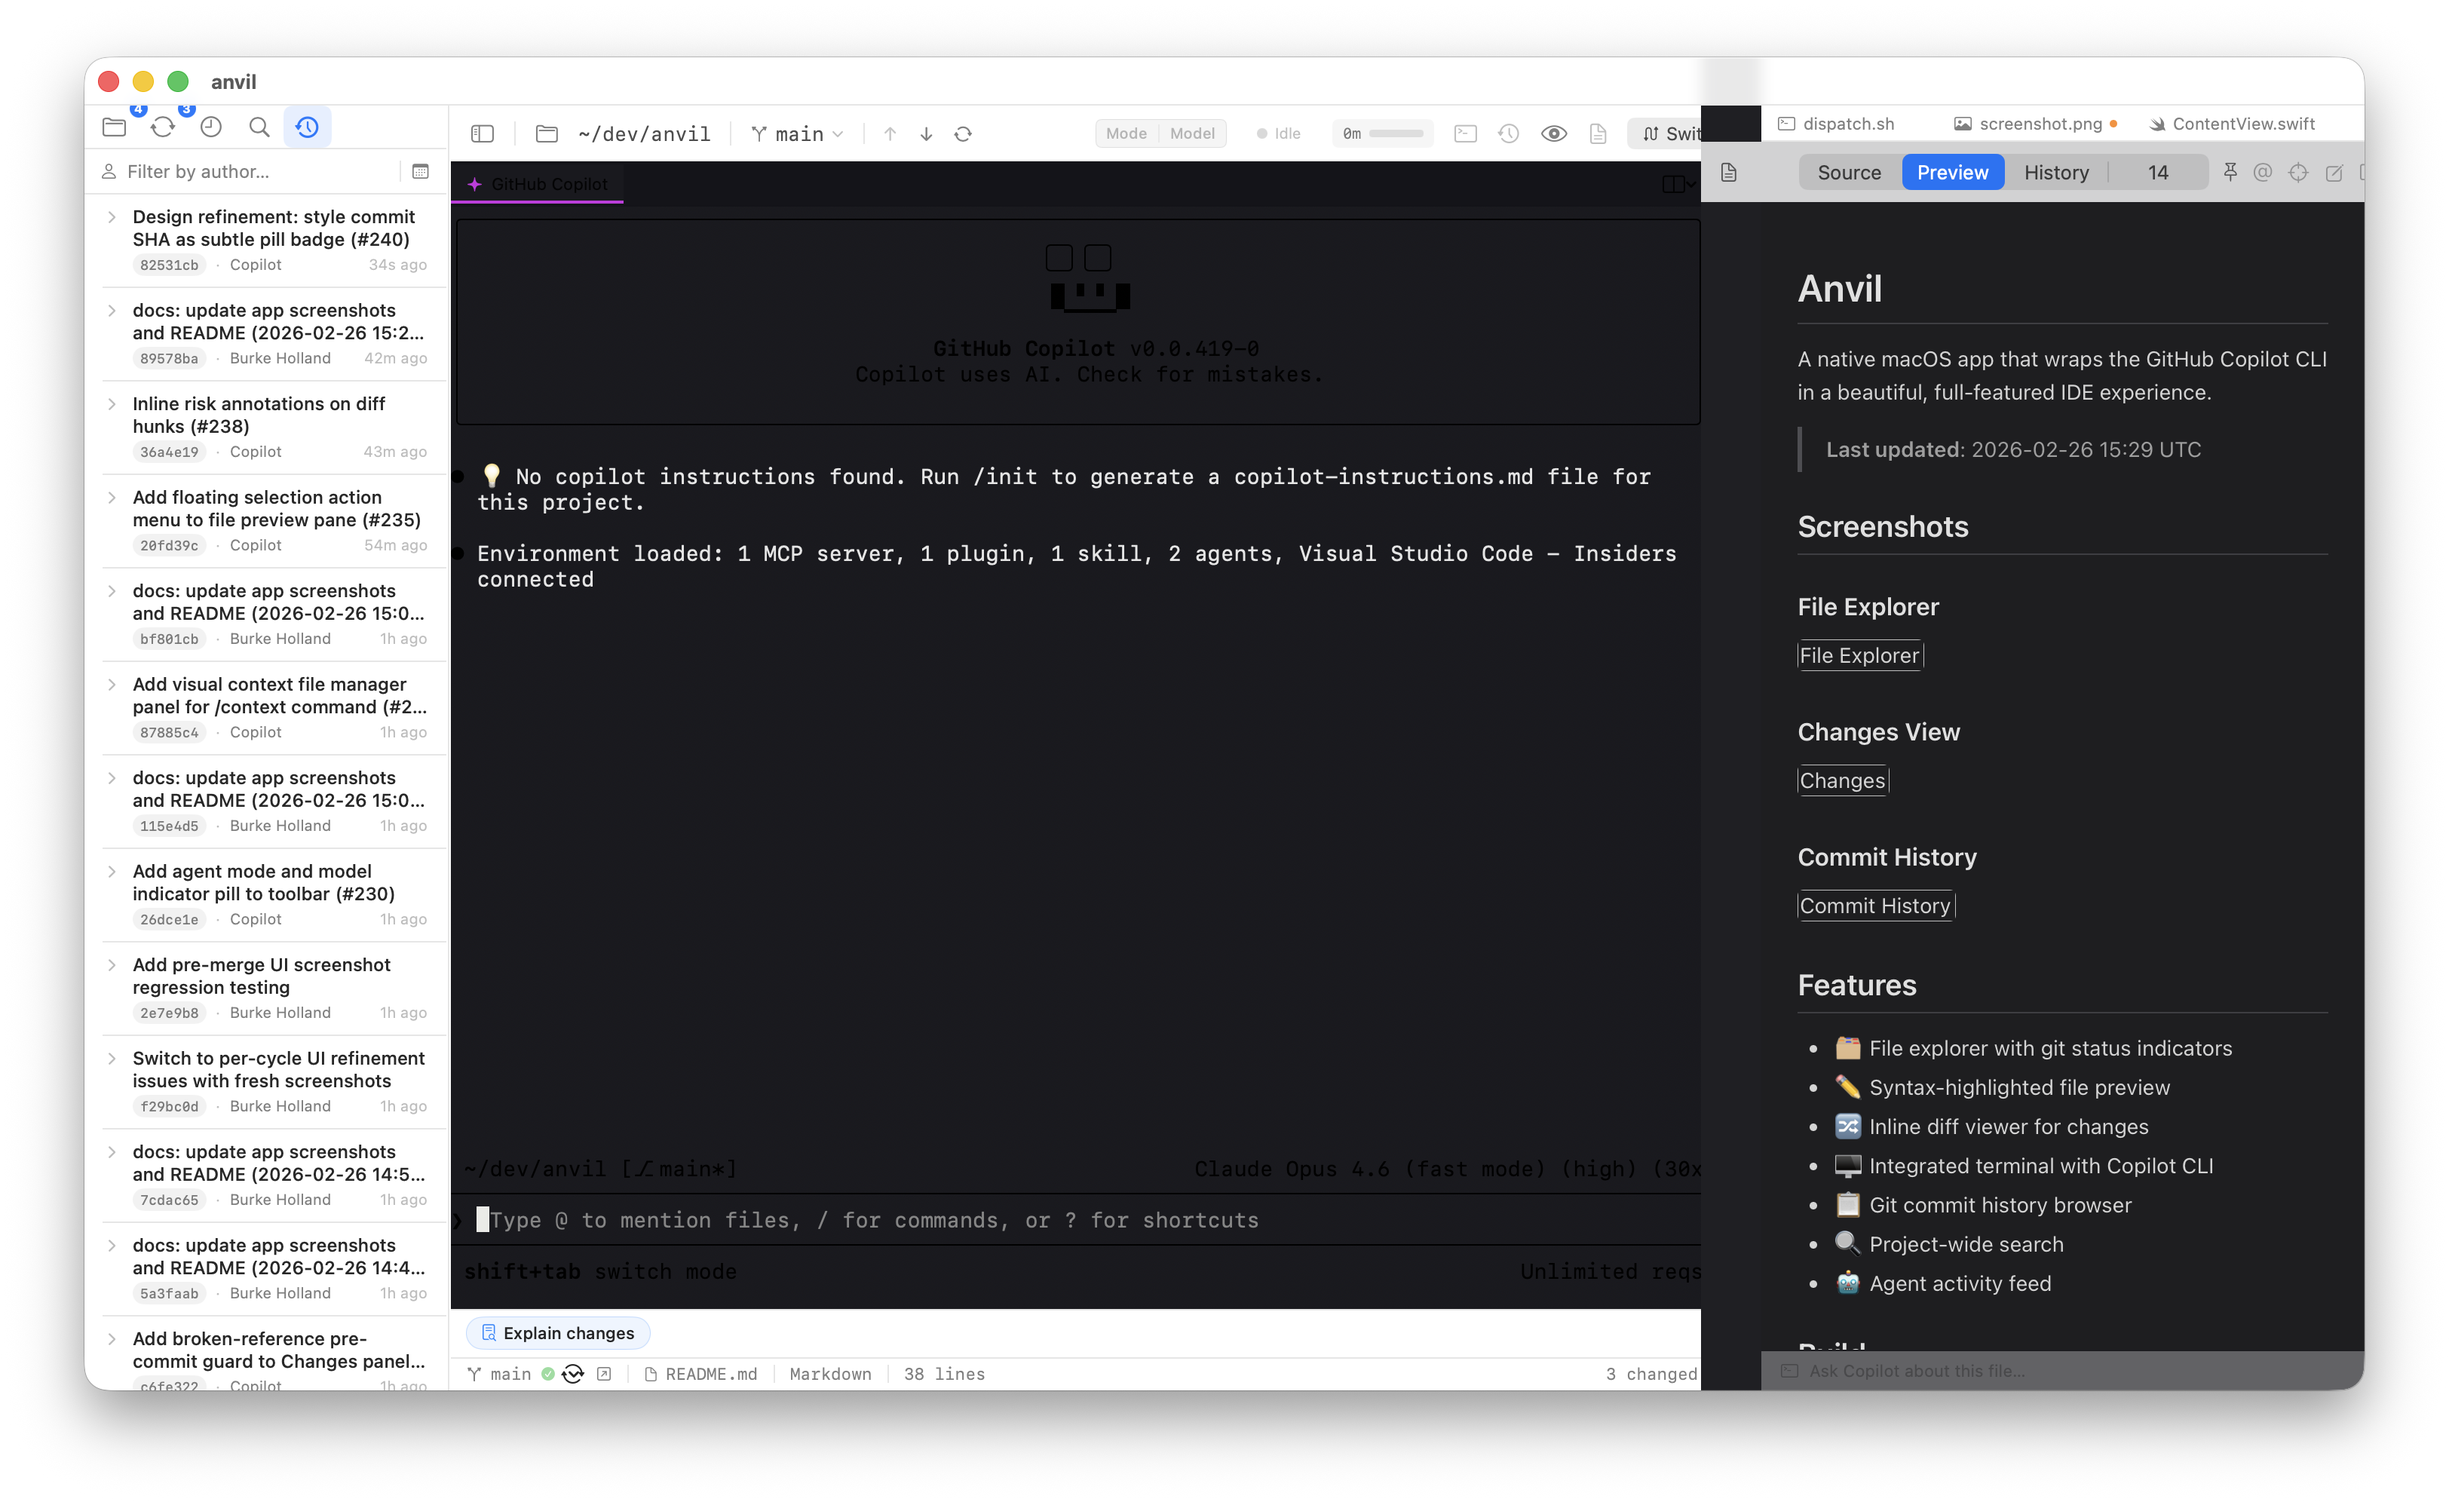
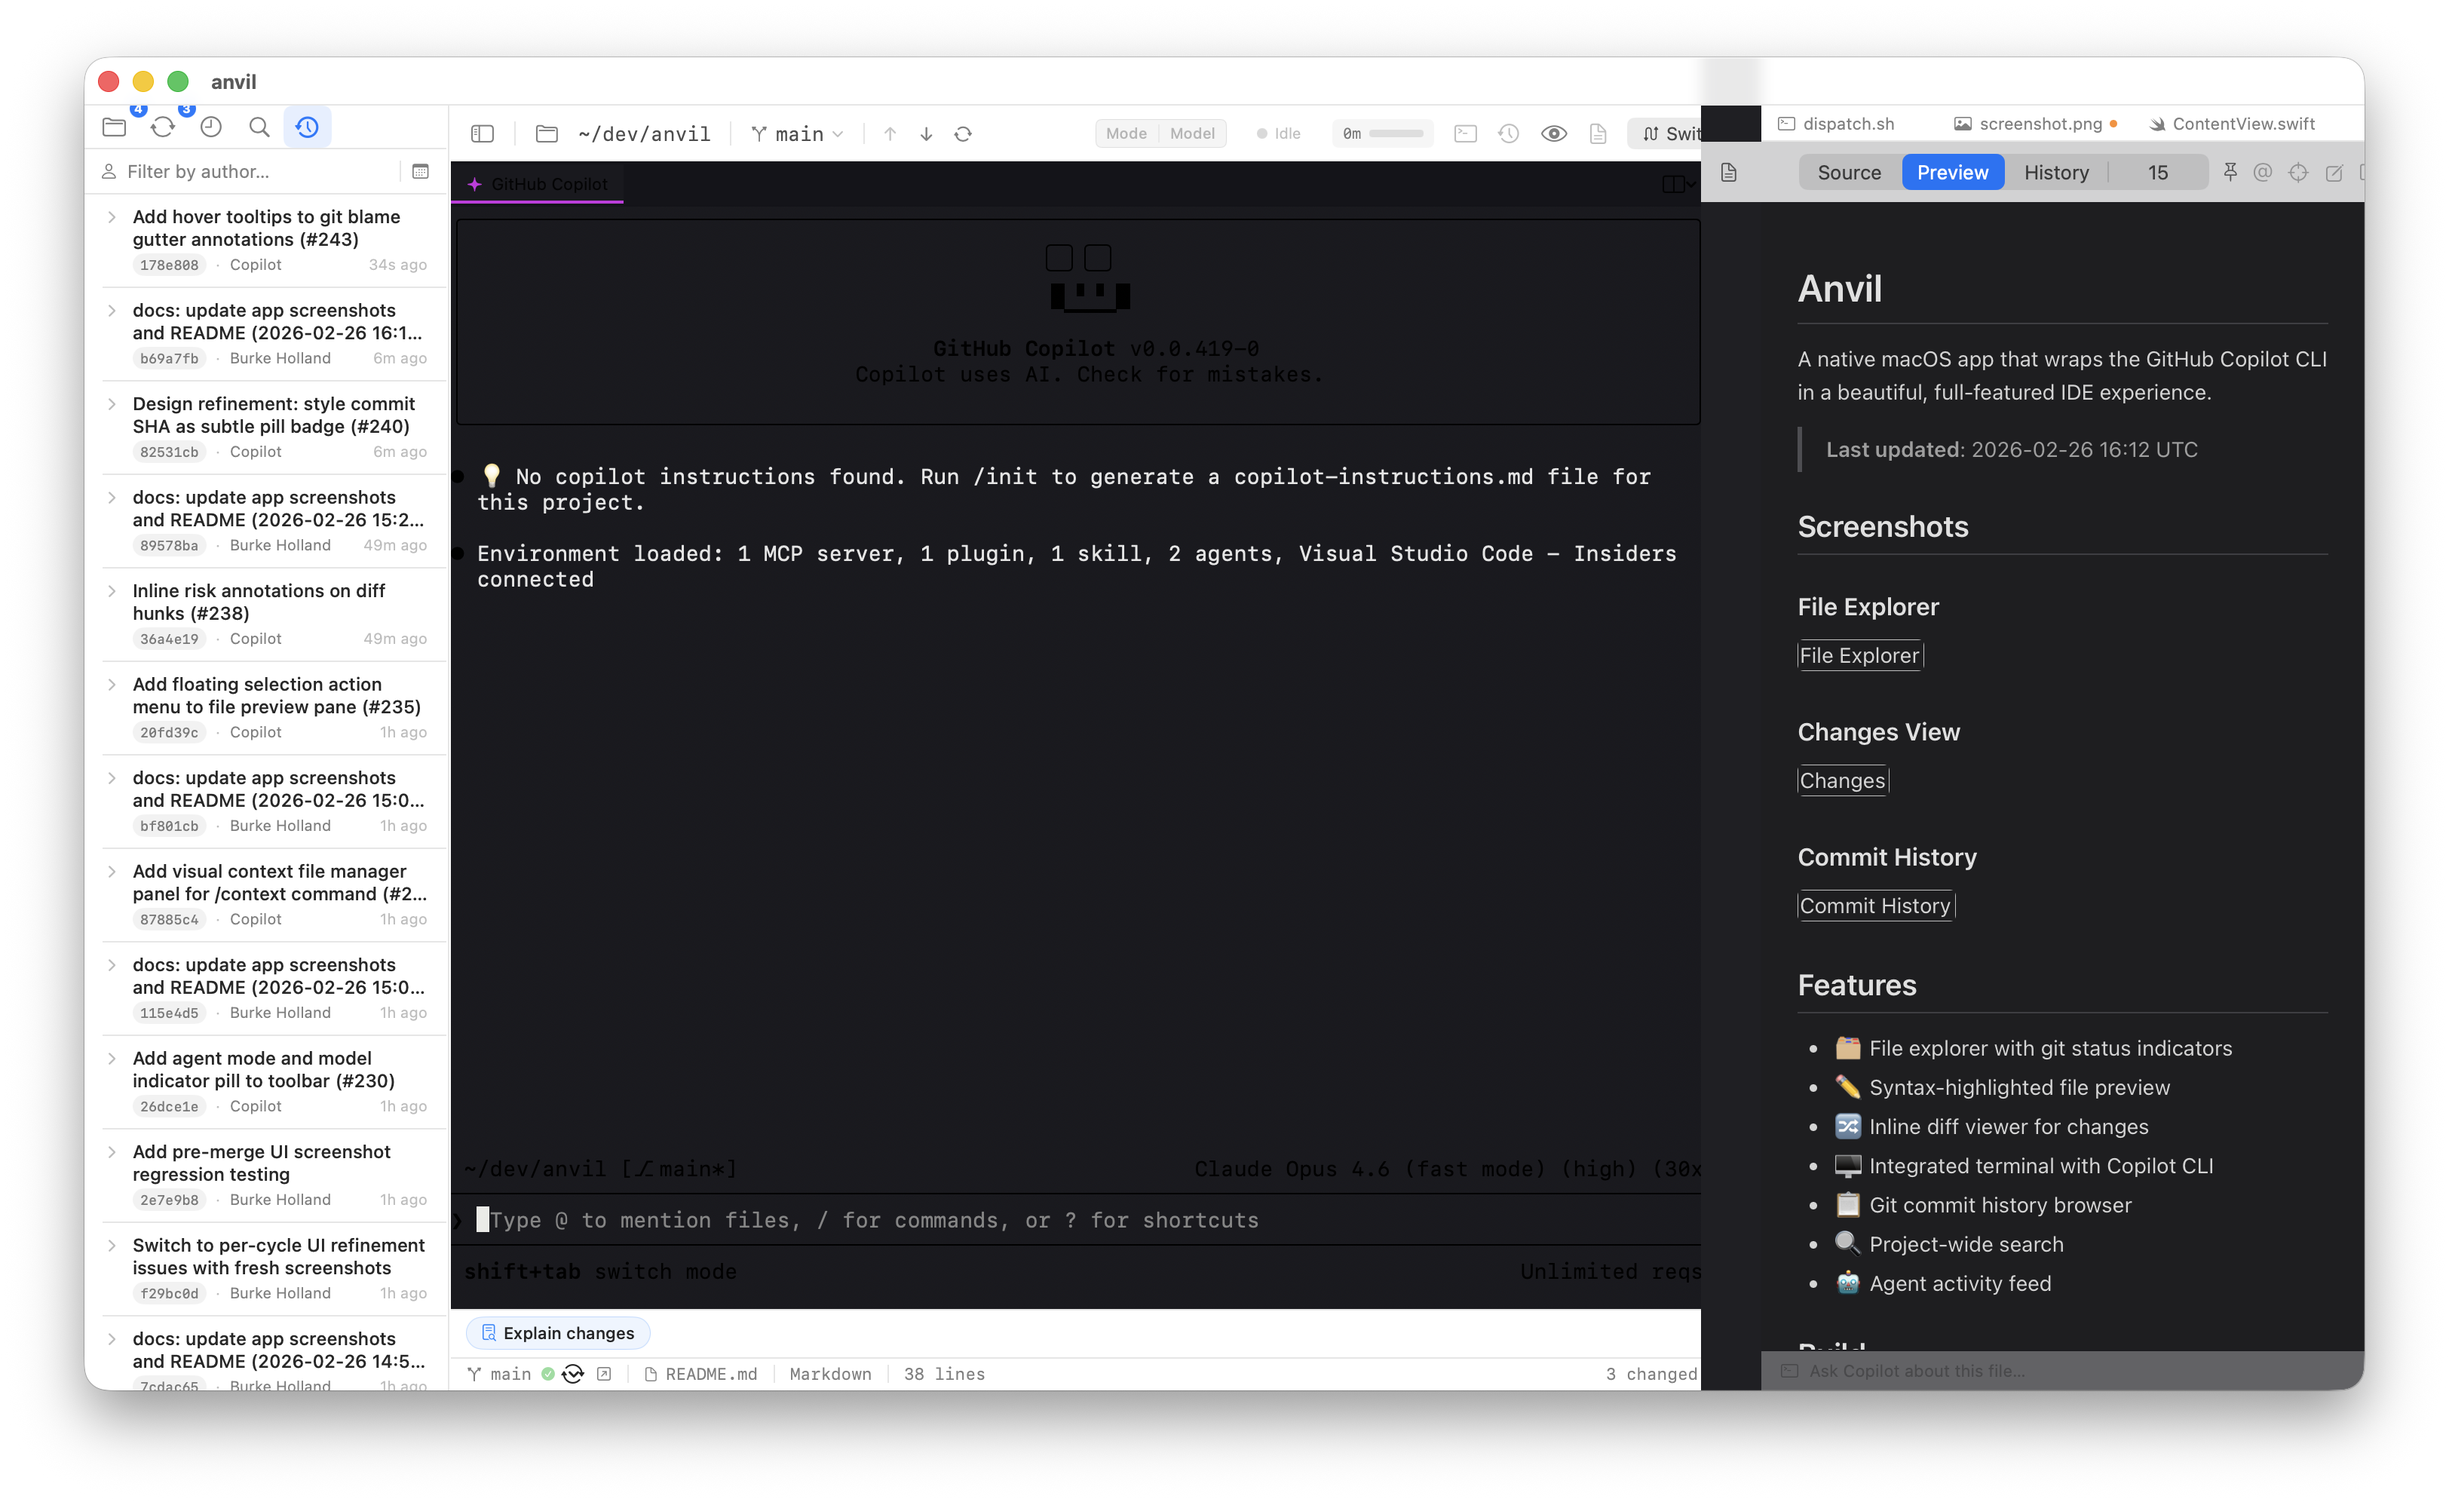
docs: update app screenshots and README (2026-02-26 16:18 UTC)

diff --git a/README.md b/README.md
@@ -2,7 +2,7 @@
 
 A native macOS app that wraps the GitHub Copilot CLI in a beautiful, full-featured IDE experience.
 
-> **Last updated**: 2026-02-26 16:12 UTC
+> **Last updated**: 2026-02-26 16:18 UTC
 
 ## Screenshots
 
